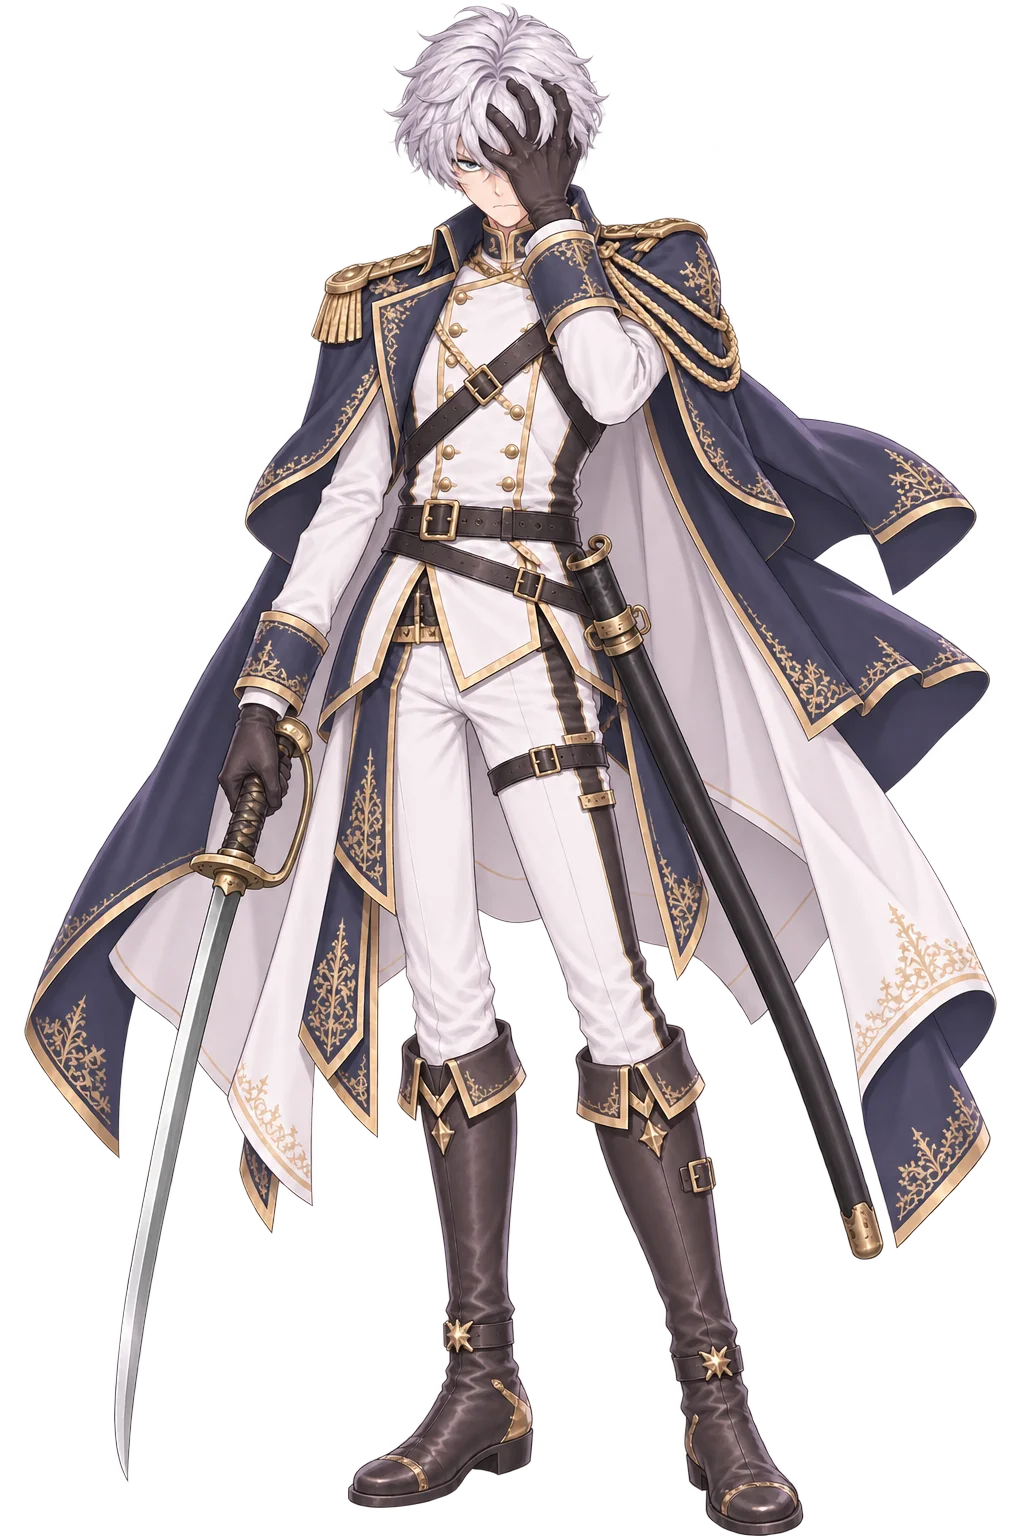
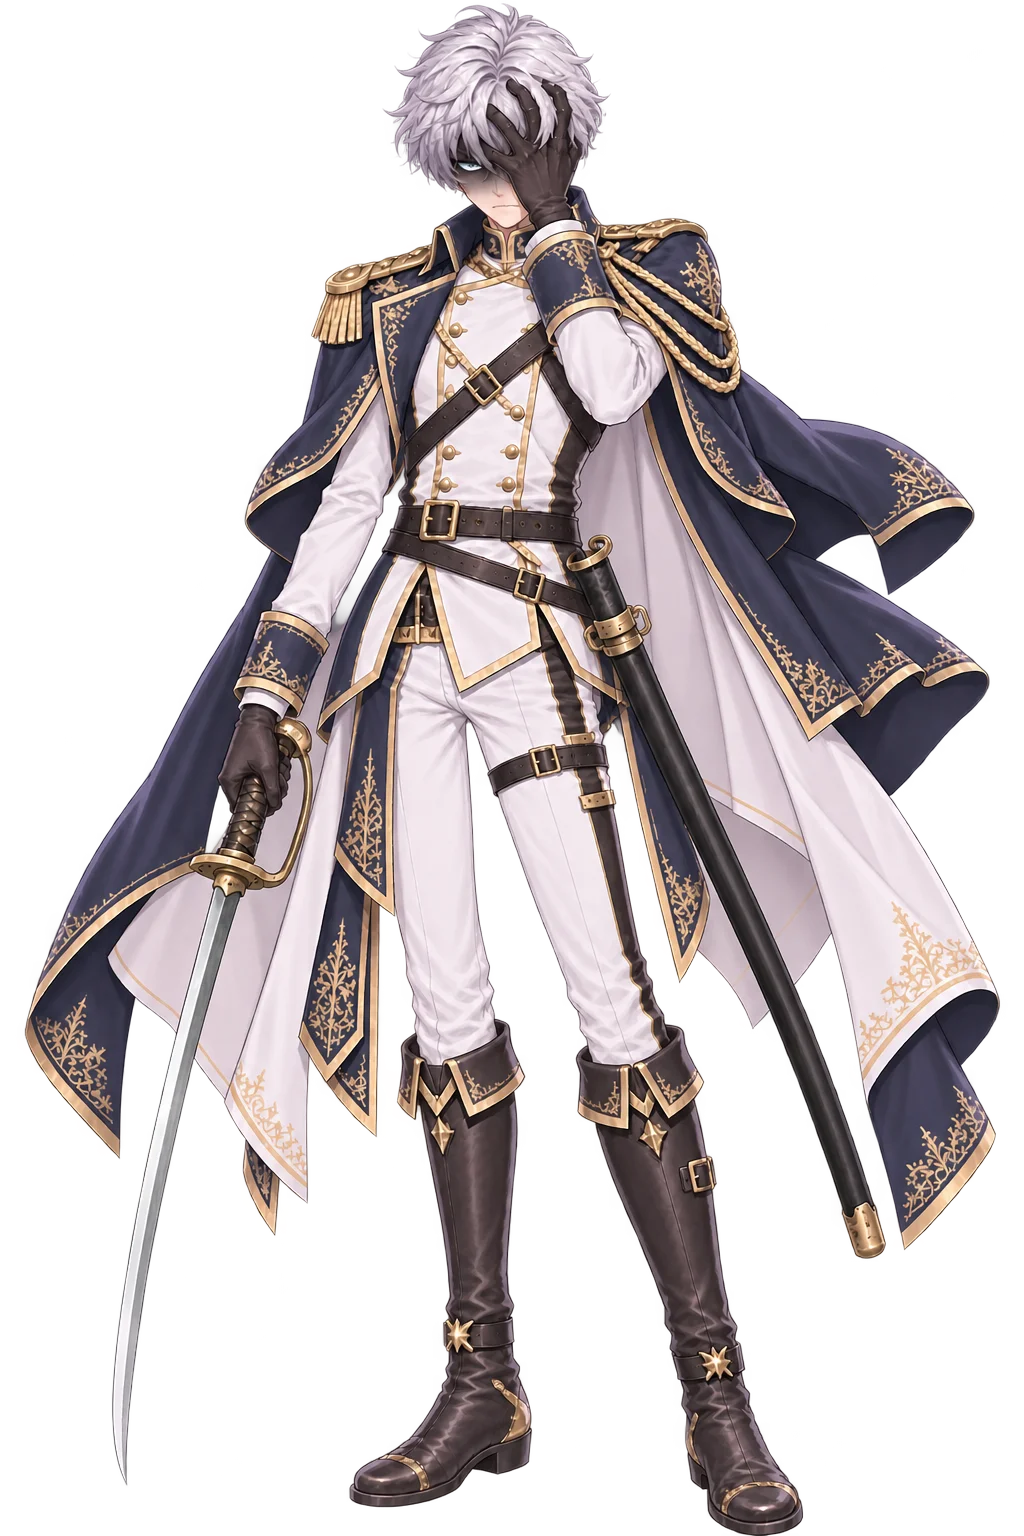
ver -2357 米夏 抓臉／抓臉閉嘴 表情更陰暗（臉上半部壓陰影、冷光眼）

diff --git a/index.html b/index.html
@@ -16,7 +16,7 @@
 <link rel="apple-touch-icon" href="resources/background/tivot_emblem.png?v=9220f8bb">
 <title>TIVOT</title>
 <!-- 全域鎖直向（真鎖 + 橫向擋板）；classic script，需在版面就緒前掛上 -->
-<script src="orientation.js?v=2356"></script>
+<script src="orientation.js?v=2357"></script>
 <!-- 離線包（ver -2256）：註冊 sw.js；主畫面 App 裡出現「下載離線包」鈕 -->
 <script src="offline.js"></script>
 <!-- ══ 效能探針・計數層（ver -850，Ray：「沒有辦法寫一個偵測程式進去看是什麼
@@ -65,74 +65,74 @@
 <script type="importmap">
 {
   "imports": {
-    "./audio.js": "./audio.js?v=2356",
-    "./config.js": "./config.js?v=2356",
-    "./i18n.js": "./i18n.js?v=2356",
-    "./main.js": "./main.js?v=2356",
-    "./offline.js": "./offline.js?v=2356",
-    "./orientation.js": "./orientation.js?v=2356",
-    "./state.js": "./state.js?v=2356",
-    "./sw.js": "./sw.js?v=2356",
-    "./telemetry.js": "./telemetry.js?v=2356",
-    "./modules/beatpick.js": "./modules/beatpick.js?v=2356",
-    "./modules/blink.js": "./modules/blink.js?v=2356",
-    "./modules/breath.js": "./modules/breath.js?v=2356",
-    "./modules/combat.js": "./modules/combat.js?v=2356",
-    "./modules/defense.js": "./modules/defense.js?v=2356",
-    "./modules/enemy.js": "./modules/enemy.js?v=2356",
-    "./modules/eyefx.js": "./modules/eyefx.js?v=2356",
-    "./modules/gear.js": "./modules/gear.js?v=2356",
-    "./modules/groundShadow.js": "./modules/groundShadow.js?v=2356",
-    "./modules/haptics.js": "./modules/haptics.js?v=2356",
-    "./modules/inn.js": "./modules/inn.js?v=2356",
-    "./modules/inspector.js": "./modules/inspector.js?v=2356",
-    "./modules/loot.js": "./modules/loot.js?v=2356",
-    "./modules/partner.js": "./modules/partner.js?v=2356",
-    "./modules/saint.js": "./modules/saint.js?v=2356",
-    "./modules/sakura.js": "./modules/sakura.js?v=2356",
-    "./modules/save.js": "./modules/save.js?v=2356",
-    "./modules/settings.js": "./modules/settings.js?v=2356",
-    "./modules/story.js": "./modules/story.js?v=2356",
-    "./modules/sway.js": "./modules/sway.js?v=2356",
-    "./modules/tone.js": "./modules/tone.js?v=2356",
-    "./modules/town.js": "./modules/town.js?v=2356",
-    "./modules/transition.js": "./modules/transition.js?v=2356",
-    "./modules/tutorial.js": "./modules/tutorial.js?v=2356",
-    "./modules/weapon.js": "./modules/weapon.js?v=2356",
-    "./script/bg_index.js": "./script/bg_index.js?v=2356",
-    "./script/blink.js": "./script/blink.js?v=2356",
-    "./script/clock.js": "./script/clock.js?v=2356",
-    "./script/enemies.js": "./script/enemies.js?v=2356",
-    "./script/evaluation.js": "./script/evaluation.js?v=2356",
-    "./script/eyefx.js": "./script/eyefx.js?v=2356",
-    "./script/inventory.js": "./script/inventory.js?v=2356",
-    "./script/loadout.js": "./script/loadout.js?v=2356",
-    "./script/mainScript.js": "./script/mainScript.js?v=2356",
-    "./script/progress.js": "./script/progress.js?v=2356",
-    "./script/shopcards.js": "./script/shopcards.js?v=2356",
-    "./script/shopstock.js": "./script/shopstock.js?v=2356",
-    "./script/speakers.js": "./script/speakers.js?v=2356",
-    "./script/sway.js": "./script/sway.js?v=2356",
-    "./script/town.js": "./script/town.js?v=2356",
-    "./script/weapons.js": "./script/weapons.js?v=2356",
-    "./i18n/en.js": "./i18n/en.js?v=2356",
-    "./i18n/es.js": "./i18n/es.js?v=2356",
-    "./i18n/ja.js": "./i18n/ja.js?v=2356",
-    "./i18n/scriptTr.js": "./i18n/scriptTr.js?v=2356",
-    "./i18n/zh.js": "./i18n/zh.js?v=2356",
-    "./i18n/script/es.classic.js": "./i18n/script/es.classic.js?v=2356",
-    "./i18n/script/es.js": "./i18n/script/es.js?v=2356",
-    "./i18n/ui/es.classic.js": "./i18n/ui/es.classic.js?v=2356",
-    "./i18n/ui/es.js": "./i18n/ui/es.js?v=2356"
+    "./audio.js": "./audio.js?v=2357",
+    "./config.js": "./config.js?v=2357",
+    "./i18n.js": "./i18n.js?v=2357",
+    "./main.js": "./main.js?v=2357",
+    "./offline.js": "./offline.js?v=2357",
+    "./orientation.js": "./orientation.js?v=2357",
+    "./state.js": "./state.js?v=2357",
+    "./sw.js": "./sw.js?v=2357",
+    "./telemetry.js": "./telemetry.js?v=2357",
+    "./modules/beatpick.js": "./modules/beatpick.js?v=2357",
+    "./modules/blink.js": "./modules/blink.js?v=2357",
+    "./modules/breath.js": "./modules/breath.js?v=2357",
+    "./modules/combat.js": "./modules/combat.js?v=2357",
+    "./modules/defense.js": "./modules/defense.js?v=2357",
+    "./modules/enemy.js": "./modules/enemy.js?v=2357",
+    "./modules/eyefx.js": "./modules/eyefx.js?v=2357",
+    "./modules/gear.js": "./modules/gear.js?v=2357",
+    "./modules/groundShadow.js": "./modules/groundShadow.js?v=2357",
+    "./modules/haptics.js": "./modules/haptics.js?v=2357",
+    "./modules/inn.js": "./modules/inn.js?v=2357",
+    "./modules/inspector.js": "./modules/inspector.js?v=2357",
+    "./modules/loot.js": "./modules/loot.js?v=2357",
+    "./modules/partner.js": "./modules/partner.js?v=2357",
+    "./modules/saint.js": "./modules/saint.js?v=2357",
+    "./modules/sakura.js": "./modules/sakura.js?v=2357",
+    "./modules/save.js": "./modules/save.js?v=2357",
+    "./modules/settings.js": "./modules/settings.js?v=2357",
+    "./modules/story.js": "./modules/story.js?v=2357",
+    "./modules/sway.js": "./modules/sway.js?v=2357",
+    "./modules/tone.js": "./modules/tone.js?v=2357",
+    "./modules/town.js": "./modules/town.js?v=2357",
+    "./modules/transition.js": "./modules/transition.js?v=2357",
+    "./modules/tutorial.js": "./modules/tutorial.js?v=2357",
+    "./modules/weapon.js": "./modules/weapon.js?v=2357",
+    "./script/bg_index.js": "./script/bg_index.js?v=2357",
+    "./script/blink.js": "./script/blink.js?v=2357",
+    "./script/clock.js": "./script/clock.js?v=2357",
+    "./script/enemies.js": "./script/enemies.js?v=2357",
+    "./script/evaluation.js": "./script/evaluation.js?v=2357",
+    "./script/eyefx.js": "./script/eyefx.js?v=2357",
+    "./script/inventory.js": "./script/inventory.js?v=2357",
+    "./script/loadout.js": "./script/loadout.js?v=2357",
+    "./script/mainScript.js": "./script/mainScript.js?v=2357",
+    "./script/progress.js": "./script/progress.js?v=2357",
+    "./script/shopcards.js": "./script/shopcards.js?v=2357",
+    "./script/shopstock.js": "./script/shopstock.js?v=2357",
+    "./script/speakers.js": "./script/speakers.js?v=2357",
+    "./script/sway.js": "./script/sway.js?v=2357",
+    "./script/town.js": "./script/town.js?v=2357",
+    "./script/weapons.js": "./script/weapons.js?v=2357",
+    "./i18n/en.js": "./i18n/en.js?v=2357",
+    "./i18n/es.js": "./i18n/es.js?v=2357",
+    "./i18n/ja.js": "./i18n/ja.js?v=2357",
+    "./i18n/scriptTr.js": "./i18n/scriptTr.js?v=2357",
+    "./i18n/zh.js": "./i18n/zh.js?v=2357",
+    "./i18n/script/es.classic.js": "./i18n/script/es.classic.js?v=2357",
+    "./i18n/script/es.js": "./i18n/script/es.js?v=2357",
+    "./i18n/ui/es.classic.js": "./i18n/ui/es.classic.js?v=2357",
+    "./i18n/ui/es.js": "./i18n/ui/es.js?v=2357"
   }
 }
 </script>
 <!-- BUST:END -->
-<link rel="stylesheet" href="style.css?v=2356">
+<link rel="stylesheet" href="style.css?v=2357">
   <!-- 拾得道具／道具欄／商店／懸賞榜（ver -380 抽出，飛行頁共用同一份）。
        ⚠ `data-lootsheet` 是給 `modules/loot.js` 認的：它看到已經掛過就不再掛一次。
          飛行頁沒有這一行，由那支模組自己掛上去。 -->
-  <link rel="stylesheet" href="css/lootsheet.css?v=2356" data-lootsheet="1">
+  <link rel="stylesheet" href="css/lootsheet.css?v=2357" data-lootsheet="1">
 <!-- 主畫面 App（standalone）偵測：首繪前在 <html> 蓋 .standalone，
      供 CSS 修 iOS 26 版面視窗少算頂部安全區高度（底部露黑帶）的問題 -->
 <script>
@@ -778,6 +778,6 @@
      ⚠ src 是**按下去才給**的（lazy）：不然每次開機都要多載一整個飛行頁。 -->
 <iframe id="flightFrame" title="飛行"></iframe>
 
-<script type="module" src="main.js?v=2356"></script>
+<script type="module" src="main.js?v=2357"></script>
 </body>
 </html>

diff --git a/flight/index.html b/flight/index.html
@@ -3,7 +3,7 @@
 <head>
 <meta charset="utf-8">
 <meta name="viewport" content="width=device-width,initial-scale=1,maximum-scale=1,user-scalable=no,viewport-fit=cover">
-<script src="../orientation.js?v=2356"></script>
+<script src="../orientation.js?v=2357"></script>
 <script>
 /* 介面字譯文（ver -1909）：這一頁是非模組，程式一開跑就讀字串 —— 所以譯文表要**同步**載
    （document.write，只在選了有譯文的語言時）。語言判定與 i18n.js 的 LANG 同一套
@@ -11,7 +11,7 @@
 (function(){
   var l=null; try{ l=localStorage.getItem('tivot.lang'); }catch(e){}
   if(!l){ try{ var n=(navigator.languages&&navigator.languages[0])||navigator.language||''; if(String(n).toLowerCase().indexOf('es')===0) l='es'; }catch(e){} }
-  if(['es'].indexOf(l)>=0) document.write('<script src="../i18n/script/'+l+'.classic.js?v=2356"><\/script><script src="../i18n/ui/'+l+'.classic.js?v=2356"><\/script>');
+  if(['es'].indexOf(l)>=0) document.write('<script src="../i18n/script/'+l+'.classic.js?v=2357"><\/script><script src="../i18n/ui/'+l+'.classic.js?v=2357"><\/script>');
 })();
 function i18nT(s){ var t=window.__TIVOT_TR; return (t && typeof s==='string' && t[s]!=null) ? t[s] : s; }
 document.addEventListener('DOMContentLoaded', function(){
@@ -236,7 +236,7 @@ document.addEventListener('DOMContentLoaded', function(){
   /* ver -2217：門圖含楣（kerberos_gate，＝主遊戲同一張）—— 底圖往上延伸到楣的上緣（--fk-gate-top，負值，layoutFKerb 寫）。
      畫在 ::before：門的子元素（紋章／箭／鉚釘）排在它之後，自然疊在上面。 */
   #fkerbDoor::before{content:'';position:absolute;left:0;right:0;top:var(--fk-gate-top,0px);bottom:0;
-    background-image:url('../resources/vfx/kerberos_gate.webp?v=2356');
+    background-image:url('../resources/vfx/kerberos_gate.webp?v=2357');
     background-repeat:no-repeat;background-size:100% 100%;pointer-events:none;}
   #fkerb.rise #fkerbDoor{transform:translateY(calc(var(--fkerb-rise,0px) * -1));}
   /* 楣與其餘零件：全部是門的子元素＝同一剛體，門上推它們跟著上去
@@ -259,8 +259,8 @@ document.addEventListener('DOMContentLoaded', function(){
       radial-gradient(circle at 50% 22%, rgba(0,0,0,.72) 40%, rgba(0,0,0,0) 78%);
     box-shadow:inset 0 3px 7px rgba(0,0,0,.85);}
   #fkerbGear .fkg-shine{position:absolute;inset:0;mix-blend-mode:screen;opacity:.8;
-    -webkit-mask-image:url("../resources/vfx/kerberos_gear.webp?v=2356");
-    mask-image:url("../resources/vfx/kerberos_gear.webp?v=2356");
+    -webkit-mask-image:url("../resources/vfx/kerberos_gear.webp?v=2357");
+    mask-image:url("../resources/vfx/kerberos_gear.webp?v=2357");
     -webkit-mask-size:100% 100%;mask-size:100% 100%;
     -webkit-mask-repeat:no-repeat;mask-repeat:no-repeat;
     background:linear-gradient(114deg,
@@ -280,8 +280,8 @@ document.addEventListener('DOMContentLoaded', function(){
     filter:drop-shadow(0 3px 7px rgba(0,0,0,.9)) drop-shadow(0 0 2px rgba(0,0,0,.8));}
   #fkerbPend .fkp-shine{position:absolute;inset:0;pointer-events:none;
     mix-blend-mode:screen;opacity:.85;
-    -webkit-mask-image:url("../resources/vfx/kerberos_pendant.webp?v=2356");
-    mask-image:url("../resources/vfx/kerberos_pendant.webp?v=2356");
+    -webkit-mask-image:url("../resources/vfx/kerberos_pendant.webp?v=2357");
+    mask-image:url("../resources/vfx/kerberos_pendant.webp?v=2357");
     -webkit-mask-size:100% 100%;mask-size:100% 100%;
     -webkit-mask-repeat:no-repeat;mask-repeat:no-repeat;
     background:linear-gradient(114deg,
@@ -646,23 +646,23 @@ img:not([src]), img[src=""], img.img-broken{visibility:hidden !important;}
        ⚠ 要有，否則交棒那一格齒輪會憑空冒出來（同吊墜的理由）。
        ⚠ 排在 `.fk-plate` 之前 ＝ 團徽之下、槍棺之上。 -->
   <div id="fkerbGear"><i class="fkg-well"></i>
-    <img src="../resources/vfx/kerberos_gear.webp?v=2356" alt=""><i class="fkg-shine"></i></div>
+    <img src="../resources/vfx/kerberos_gear.webp?v=2357" alt=""><i class="fkg-shine"></i></div>
   <div id="fkerbGearSm"><i class="fkg-well"></i>
-    <img src="../resources/vfx/kerberos_gear.webp?v=2356" alt=""></div>
-  <img class="fk-plate" src="../resources/vfx/kerberos_plate.webp?v=2356" alt="">
-  <img class="fk-arrow n" src="../resources/vfx/kerberos_arrow.webp?v=2356" alt="">
-  <img class="fk-arrow e" src="../resources/vfx/kerberos_arrow.webp?v=2356" alt="">
-  <img class="fk-arrow s" src="../resources/vfx/kerberos_arrow.webp?v=2356" alt="">
-  <img class="fk-arrow w" src="../resources/vfx/kerberos_arrow.webp?v=2356" alt="">
-  <img class="fk-rivet r10" src="../resources/vfx/kerberos_rivet.webp?v=2356" alt="">
-  <img class="fk-rivet r2"  src="../resources/vfx/kerberos_rivet.webp?v=2356" alt="">
-  <img class="fk-rivet r4"  src="../resources/vfx/kerberos_rivet.webp?v=2356" alt="">
-  <img class="fk-rivet r8"  src="../resources/vfx/kerberos_rivet.webp?v=2356" alt="">
+    <img src="../resources/vfx/kerberos_gear.webp?v=2357" alt=""></div>
+  <img class="fk-plate" src="../resources/vfx/kerberos_plate.webp?v=2357" alt="">
+  <img class="fk-arrow n" src="../resources/vfx/kerberos_arrow.webp?v=2357" alt="">
+  <img class="fk-arrow e" src="../resources/vfx/kerberos_arrow.webp?v=2357" alt="">
+  <img class="fk-arrow s" src="../resources/vfx/kerberos_arrow.webp?v=2357" alt="">
+  <img class="fk-arrow w" src="../resources/vfx/kerberos_arrow.webp?v=2357" alt="">
+  <img class="fk-rivet r10" src="../resources/vfx/kerberos_rivet.webp?v=2357" alt="">
+  <img class="fk-rivet r2"  src="../resources/vfx/kerberos_rivet.webp?v=2357" alt="">
+  <img class="fk-rivet r4"  src="../resources/vfx/kerberos_rivet.webp?v=2357" alt="">
+  <img class="fk-rivet r8"  src="../resources/vfx/kerberos_rivet.webp?v=2357" alt="">
   <!-- 吊墜（ver -412）：與主遊戲同一套（見 index.html 的 #kerbPend 與 style.css）。
        ⚠ 這一頁**必須也有** —— 遭遇時門是在這裡推上來的，交棒之後主遊戲那一半才接手；
          只有一邊掛吊墜的話，交棒那一格會憑空多出一個東西。 -->
   <div id="fkerbPend"><div class="fkp-swing"><div class="fkp-idle">
-    <img src="../resources/vfx/kerberos_pendant.webp?v=2356" alt=""><i class="fkp-shine"></i>
+    <img src="../resources/vfx/kerberos_pendant.webp?v=2357" alt=""><i class="fkp-shine"></i>
   </div></div></div>
 </div></div>
 <div id="boot">
@@ -684,11 +684,11 @@ img:not([src]), img[src=""], img.img-broken{visibility:hidden !important;}
   <div id="bMsg"><small id="bootMsg"></small></div>
 </div>
 
-<script src="settlement.js?v=2356"></script>
+<script src="settlement.js?v=2357"></script>
 <!-- 閒聊對話的**內容**獨立成一支：方便加台詞、加觸發條件而不必碰引擎。
      ⚠ 一般 <script>（非 module）→ TALKS / talkPeriod / talkPick 是全域，
        而且會在下面這段 inline 之前執行完，所以 inline 內可以直接用。 -->
-<script src="talks.js?v=2356"></script>
+<script src="talks.js?v=2357"></script>
 <script>
 /* 破圖框一律不畫（ver -1881，同主頁 main.js 那一支，這一頁是另一個 document）。 */
 document.addEventListener('error', e=>{ const t=e.target; if(t && t.tagName==='IMG') t.classList.add('img-broken'); }, true);
@@ -764,7 +764,7 @@ const COLOR_URL  = 'silvermoon_terrain.png?v=b18827be'  + TERRAIN_V;
    以前是手寫的，於是從 -911 起就沒有人記得動它 —— 而 HUD 上的版本號正是 Ray
    在手機上確認「我現在跑的是哪一版」的唯一依據（鐵律 7：一個量一個計算點；
    ver -626：版本號不動就等於沒有版本號）。**不要手改。** */
-const FLIGHT_VER = 'ver -2356';
+const FLIGHT_VER = 'ver -2357';
 const MAP_SCALE  = 20;
 const INV_SCALE  = 1/MAP_SCALE;
 const PEAK_SCALE = 520;   // 高度圖 255 對應的世界高度（越大山越陡）

diff --git a/script/speakers.js b/script/speakers.js
@@ -1658,8 +1658,8 @@ export const ART = {
     salute:     { src:'resources/si/misha_si_salute.webp', top:9, bot:1520, fx:0.447 },
     side:       { src:'resources/si/misha_si_side.webp', top:16, bot:1512, fx:0.37 },
     '暴走':     { blink:'off', rescale:true, src:'resources/si/misha_si_coverfaceni.webp?v=ff6889ab', top:14, bot:1212, fx:0.279 },   // ver -2353（Ray）：抓臉那張＋恨意紅光眼、臉頰裂紋、左後方碎裂紫光翼（方形 1254²）；top/bot 量人不量翼
-    '抓臉閉嘴': { blink:'off', src:'resources/si/misha_si_coverfaceshut.webp', top:8, bot:1512, fx:0.470 },   // ver -2356（Ray：「咬牙 閉嘴兩張都收」）：同抓臉，嘴緊閉不露牙
-    '抓臉':     { blink:'off', src:'resources/si/misha_si_coverface.webp?v=9a96781e', top:8, bot:1512, fx:0.470 },   // ver -2356（Ray）：front 為底；森冷銳利、咬牙；左手插髮扣臉、銀髮穿過指縫、冷眼從指縫露出；右手持畜生道長刀、長鞘掛左腰
+    '抓臉閉嘴': { blink:'off', src:'resources/si/misha_si_coverfaceshut.webp?v=58da9959', top:8, bot:1512, fx:0.470 },   // ver -2356（Ray：「咬牙 閉嘴兩張都收」）：同抓臉（-2357 更陰暗），嘴緊閉不露牙
+    '抓臉':     { blink:'off', src:'resources/si/misha_si_coverface.webp?v=754856ca', top:8, bot:1512, fx:0.470 },   // ver -2356（Ray）：front 為底；森冷銳利、咬牙、臉上半部壓陰影、冷光眼（-2357 更陰暗）；左手插髮扣臉、銀髮穿過指縫、冷眼從指縫露出；右手持畜生道長刀、長鞘掛左腰
     wound:      { fxShift:0, blink:'off', src:'resources/si/misha_si_wound.webp?v=3a49219d', top:34, bot:1499, fx:0.403 },
     close:      { src:'resources/si/misha_si_close.webp?v=47dd4349', top:14, bot:1509, fx:0.469 },
     back:       { src:'resources/si/misha_si_back.webp', top:12, bot:1496, fx:0.458 },

diff --git a/config.js b/config.js
@@ -87,7 +87,7 @@ export const HITFX = {
  *     以為是快取卡住 —— 版本號不動就等於沒有版本號）。
  *  ⚠ 它同時是**暖開機戳記的鑰匙**（main.js 的 `WARM_BOOT`）：版本一變，
  *    上一版的戳記就失效 → 下一次開機重跑完整讀取。那正是改版後該有的行為。 */
-export const VERSION = 'ver 2026.11.01-2356';
+export const VERSION = 'ver 2026.11.01-2357';
 
 /* ══ 空中怪 16 隻的戰鬥卡（ver -2268）══ 每一隻一張 `flight_<鍵>`（飛行頁 `battleIdFor` 的命名），
    內容同羽蛇那一場：船戰、艦載武器音、連射間隔 180ms。⚠ 這份鍵清單在三處：這裡／
@@ -6152,8 +6152,9 @@ export const ASSET_VER = {
   'misha_si_closeopen': '102292c5',
   'misha_si_closeopen_closed': '658c29c2',
   'misha_si_closeopen_half': '0379d48b',
-  'misha_si_coverface': '9a96781e',
+  'misha_si_coverface': '754856ca',
   'misha_si_coverfaceni': 'ff6889ab',
+  'misha_si_coverfaceshut': '58da9959',
   'misha_si_draw': '68b1b653',
   'misha_si_draw_closed': 'ff69810f',
   'misha_si_draw_half': '45f86f5a',

diff --git a/modules/story.js b/modules/story.js
@@ -3588,7 +3588,7 @@ const KERB_DIR='resources/vfx/';
    cache-buster（§5：檔名沒變、內容變了，瀏覽器照樣拿舊的那一份，而症狀只是
    「看起來沒變」）。版本號由 `tools/bust.py` 同步，路徑只由 `kerbUrl()` 組（鐵律 8）——
    飛行頁那一半是另一個 document，各有一份，改一邊要改另一邊。 */
-const KERB_V='?v=2356';
+const KERB_V='?v=2357';
 const kerbUrl=n=>KERB_DIR+n+'.webp'+KERB_V;
 /* 門的圖（ver -2218）：**每一道門都要先載完**（劇情讀取頁 `preloadStory`、城鎮那道 `loadScene`）——
    Ray：「讀圖的時候先跑槍棺出來才讀楣」「往上推的時候楣會消失」：合成後的 `kerberos_gate`（門＋楣）
